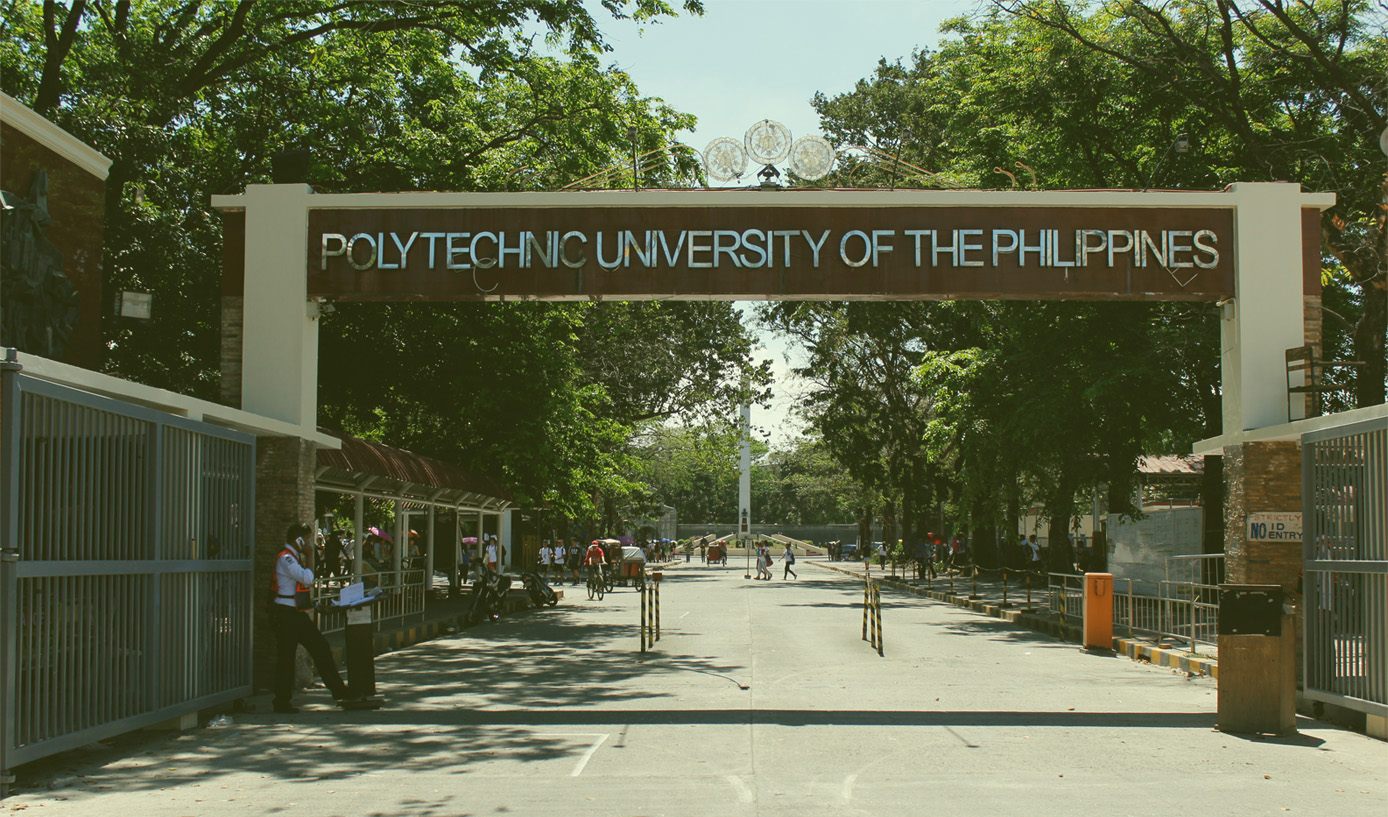
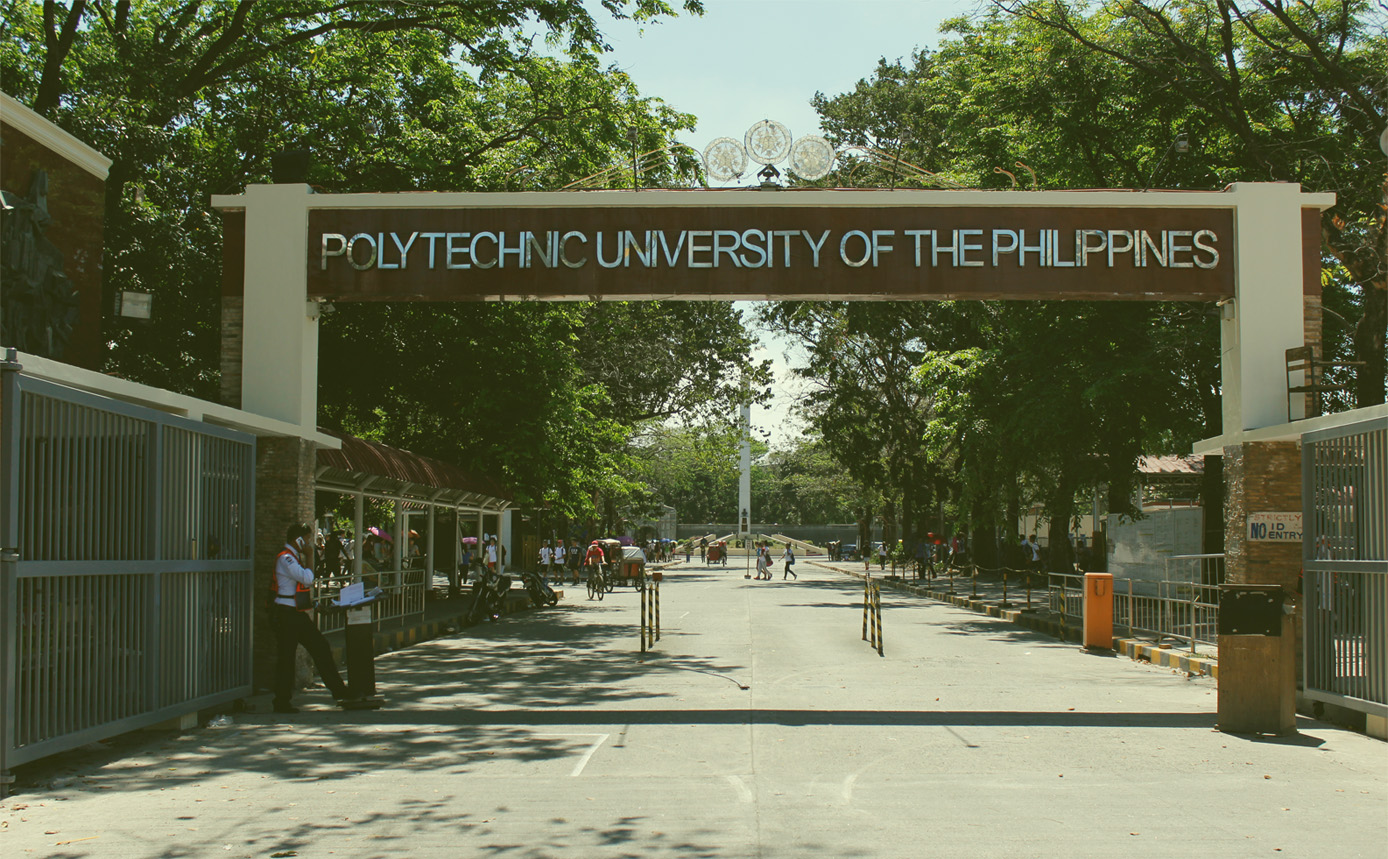
changed login page background image

diff --git a/codeigniter/public/css/stylesheet.css b/codeigniter/public/css/stylesheet.css
@@ -36,7 +36,7 @@
 /*UNIVERSAL end*/
 
 /*LOGIN CONTENT*/
-#login-body-wrapper {background: url("pupfreshres.jpg"); background-position: center 50%; background-repeat: no-repeat; background-attachment: fixed; 
+#login-body-wrapper {background: url("pupfreshres.jpg"); background-position: center 10%; background-repeat: no-repeat; background-attachment: fixed; 
 					background-size: cover; }
 #login-title-wrapper{margin-top: 150px;}
 /*#login-title-wrapper span{background: rgba(0,0,0,.50);}*/

diff --git a/codeigniter/public/css/sidebar.css b/codeigniter/public/css/sidebar.css
@@ -63,7 +63,6 @@ li { list-style-type: none; }
 	#sidebar-menu{font-size: 16px}
 	#sidebar-subMenu a.hideOverflow{font-size: 13px}
 	#sidebar-item{font-size: 12px}
-	#sidebar-wrapper.collapsed{ width: 60px !important; }
 	#sidebar-wrapper{width: 310px;}
 	
 }
@@ -73,6 +72,5 @@ li { list-style-type: none; }
 	#sidebar-menu{font-size: 14px}
 	#sidebar-subMenu a.hideOverflow{font-size: 11px}
 	#sidebar-item{font-size: 10px}
-	#sidebar-wrapper.collapsed{ width: 77px !important; }
 	
 }
